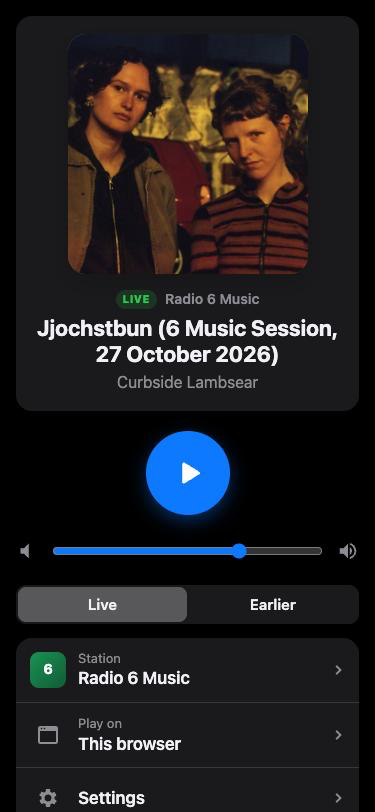
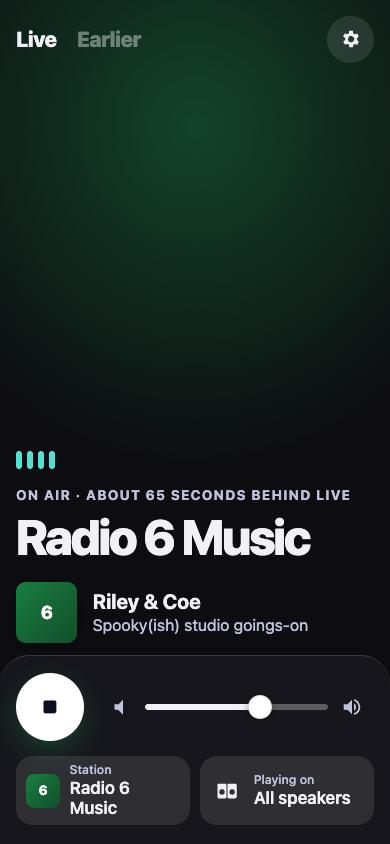
New screenshots for 0.4.1, and a snapshot option for making them
The README shows the new Mac panel and the "On air" web app. `--snapshot=<file>` with a `--demo=` state saves
the window as a PNG and quits. On phones the background glow now changes colour at once, since some browsers
don't repaint it during the transition. The release notes describe the phone layout.

diff --git a/Sources/InterLudeApp/App.swift b/Sources/InterLudeApp/App.swift
@@ -37,6 +37,19 @@ final class AppDelegate: NSObject, NSApplicationDelegate {
         }
         window?.makeKeyAndOrderFront(nil)
         NSApp.activate(ignoringOtherApps: true)
+        if let path = CommandLine.arguments.first(where: { $0.hasPrefix("--snapshot=") })?.dropFirst(11) { snapshot(to: String(path)) }
+    }
+
+    /// For README screenshots with `--demo=`: saves the window's content as a PNG once it has settled, then quits.
+    private func snapshot(to path: String) {
+        Task { @MainActor in
+            try? await Task.sleep(for: .seconds(4))
+            if let view = window?.contentView, let rep = view.bitmapImageRepForCachingDisplay(in: view.bounds) {
+                view.cacheDisplay(in: view.bounds, to: rep)
+                try? rep.representation(using: .png, properties: [:])?.write(to: URL(fileURLWithPath: path))
+            }
+            NSApp.terminate(nil)
+        }
     }
 }
 

diff --git a/Sources/InterLudeCore/Remote.swift b/Sources/InterLudeCore/Remote.swift
@@ -508,6 +508,8 @@ dialog::backdrop { background: rgba(0,0,0,.4); }
     background: radial-gradient(closest-side, color-mix(in srgb, var(--c1) 48%, transparent), transparent); }
 }
 @media (max-width: 899px) and (prefers-color-scheme: dark) { :root { --bg: #0a0a0f; } }
+/* The glow changes colour at once on phones: some browsers don't repaint a pseudo-element while a registered colour transitions. */
+@media (max-width: 899px) { :root { transition: none; } }
 @keyframes eq { from { height: 25%; } to { height: 100%; } }
 @media (prefers-reduced-motion: reduce) { .eq i { animation: none !important; } }
 /* A plain background for anyone who finds the gradient hard to read: chosen at the foot of the page, or by the phone's own settings. */

diff --git a/docs/releases/v0.4.1.md b/docs/releases/v0.4.1.md
@@ -4,14 +4,15 @@ A new look, a phone layout that works like a music app, and a round of fixes for
 
 ## What's new
 
-- **A new look.** The Mac panel and the web app share a dark, glass-and-gradient style. The background drifts slowly and follows what's happening: blue and violet while listening, pink through a muted bulletin, violet for an earlier programme, and tinted with the station's colour on the web app while live. It stands still when nothing is playing and when Reduce Motion is on.
-- **A one-screen player on phones.** On a phone the web app is now a single player screen: the artwork fills the space that's left, play and volume sit low where a thumb rests, and Station and Speaker are buttons at the bottom. News and the programme list are a scroll away.
-- **Works with large text.** Text and controls on the web app follow the phone's text size, long names wrap instead of being cut off, volume has large − and + buttons, and tap targets are larger. Secondary text has more contrast. **Plain background** at the foot of the page turns off the gradient and blur, and the phone's Increase Contrast and Reduce Transparency settings do the same.
+- **A new look.** The Mac panel and the web app share a dark, glass-and-gradient style. The background drifts slowly and follows what's happening: blue and violet while listening, pink through a muted bulletin, violet for an earlier programme, and on a phone the background is a single glow in the station's colour. It stands still when nothing is playing and when Reduce Motion is on.
+- **"On air" on phones.** On a phone the web app is now a single player screen. The station's name is set large under a line saying what InterLude is doing, with live bars while it plays and what's on beneath. Every control sits in a dock fixed to the bottom edge: the bulletin alert with **Not news**, play and volume, and the station and speaker. Live and Earlier are tabs at the top, with Settings beside them.
+- **Works with large text.** Text and controls on the web app follow the phone's text size, long names wrap instead of being cut off, volume has large quieter and louder buttons beside the slider, and tap targets are larger. Secondary text has more contrast. **Plain background** at the foot of the page turns off the gradient and blur, and the phone's Increase Contrast and Reduce Transparency settings do the same.
 
 ## Fixes
 
 - **Mac panel:** the mute button is a real button, with a label for VoiceOver, and unmutes to the volume you had. Small labels scale with your text size. The error state is labelled. Quit is in a More menu, away from Settings. Settings keeps the long news-detection explanation behind "How news detection works".
 - **Web app:** "Not news" is readable in dark mode. A stream that is starting says it takes about 20 seconds. Playback errors are in plain words and stay longer. Reset link asks you to confirm in the page. Space plays and stops. Keyboard focus is visible. If the QR code can't load, Settings says so. On a computer, the player column now stays in view beside a long programme list, as intended.
+- **Server page updates:** `scripts/push-web.sh` puts a changed web page on a running server in seconds, with no image rebuild. A newer image takes over again.
 - **Tidier project:** placeholder addresses replace real ones in the tests and compose file, and early experiment tools were removed.
 
 ## Before you install

diff --git a/README.md b/README.md
@@ -55,7 +55,7 @@ Turn on **Settings › Phone remote** and point a phone's camera at the QR code.
 
 The remote is served by the same small web server the Chromecasts use. Its address carries a long random code, so other people on the network can't guess it; **Reset link** makes a new one and the old link stops working. The Mac has to be awake with InterLude open. In Live, Play on the phone plays live; in Earlier it plays the programme last picked from its start, or live if none was. If the Mac's firewall is on, macOS asks once whether InterLude may accept incoming connections.
 
-The design, the measurements behind each rule and the mistakes along the way are written up in [docs/archive/findings.md](docs/findings.md).
+The design, the measurements behind each rule and the mistakes along the way are written up in [docs/archive/findings.md](docs/archive/findings.md).
 
 ## Requirements
 
@@ -106,14 +106,14 @@ Then:
 DEVELOPER_DIR=/Applications/Xcode.app/Contents/Developer swift test --scratch-path ~/Library/Caches/InterLudeBuild
 ```
 
-To see the panel's states without playing anything, launch with `--demo=playing`, `--demo=muted`, `--demo=upcoming`, `--demo=error`, `--demo=earlier`, `--demo=earlier-past`, `--demo=replay` or `--demo=settings`.
+To see the panel's states without playing anything, launch with `--demo=playing`, `--demo=muted`, `--demo=upcoming`, `--demo=error`, `--demo=earlier`, `--demo=earlier-past`, `--demo=replay` or `--demo=settings`. Add `--snapshot=<file.png>` to save the window as a picture and quit, as for the screenshots here.
 
 ## Running the server
 
 InterLude also runs as a web app on a Linux machine, so it works with no Mac involved: any phone, tablet or computer plays and controls it in a browser, and it can cast to Chromecasts itself. It uses open models in place of Apple's: YAMNet for speech and music and whisper.cpp for the newsreader, both running on the server's CPU. Nothing is sent to a speech service.
 
 <p align="center">
-  <img src="docs/images/web-phone.png" width="250" alt="The web app on a phone, playing 6 Music live">
+  <img src="docs/images/web-phone.png" width="250" alt="The web app on a phone playing 6 Music live: the station name large, with play, volume, station and speaker in a dock at the bottom">
   <img src="docs/images/web-desktop.png" width="560" alt="The web app on a computer, with the Earlier programme list beside the player">
 </p>
 <p align="center"><sub>In a browser: on a phone, and on a computer with yesterday's programmes.</sub></p>
@@ -193,7 +193,7 @@ The server keeps the same files in its `data` volume (`/var/lib/interlude` in th
 | `Tests` | Unit tests for the parts that can be tested without a network or speakers. |
 | `Tools` | Command-line programs used to measure and tune detection (below). |
 | `docs` | Notes on on-demand playback, release notes and screenshots. `docs/archive` holds the findings and manual test checklists from early development. |
-| `scripts` | Building and packaging the Mac app, installing the server's native libraries on Linux, preparing YAMNet, and comparing two event logs. |
+| `scripts` | Building and packaging the Mac app, installing the server's native libraries on Linux, preparing YAMNet, comparing two event logs, and `push-web.sh`, which puts a changed web page on a running server without rebuilding its image. |
 
 ### Tools
 
